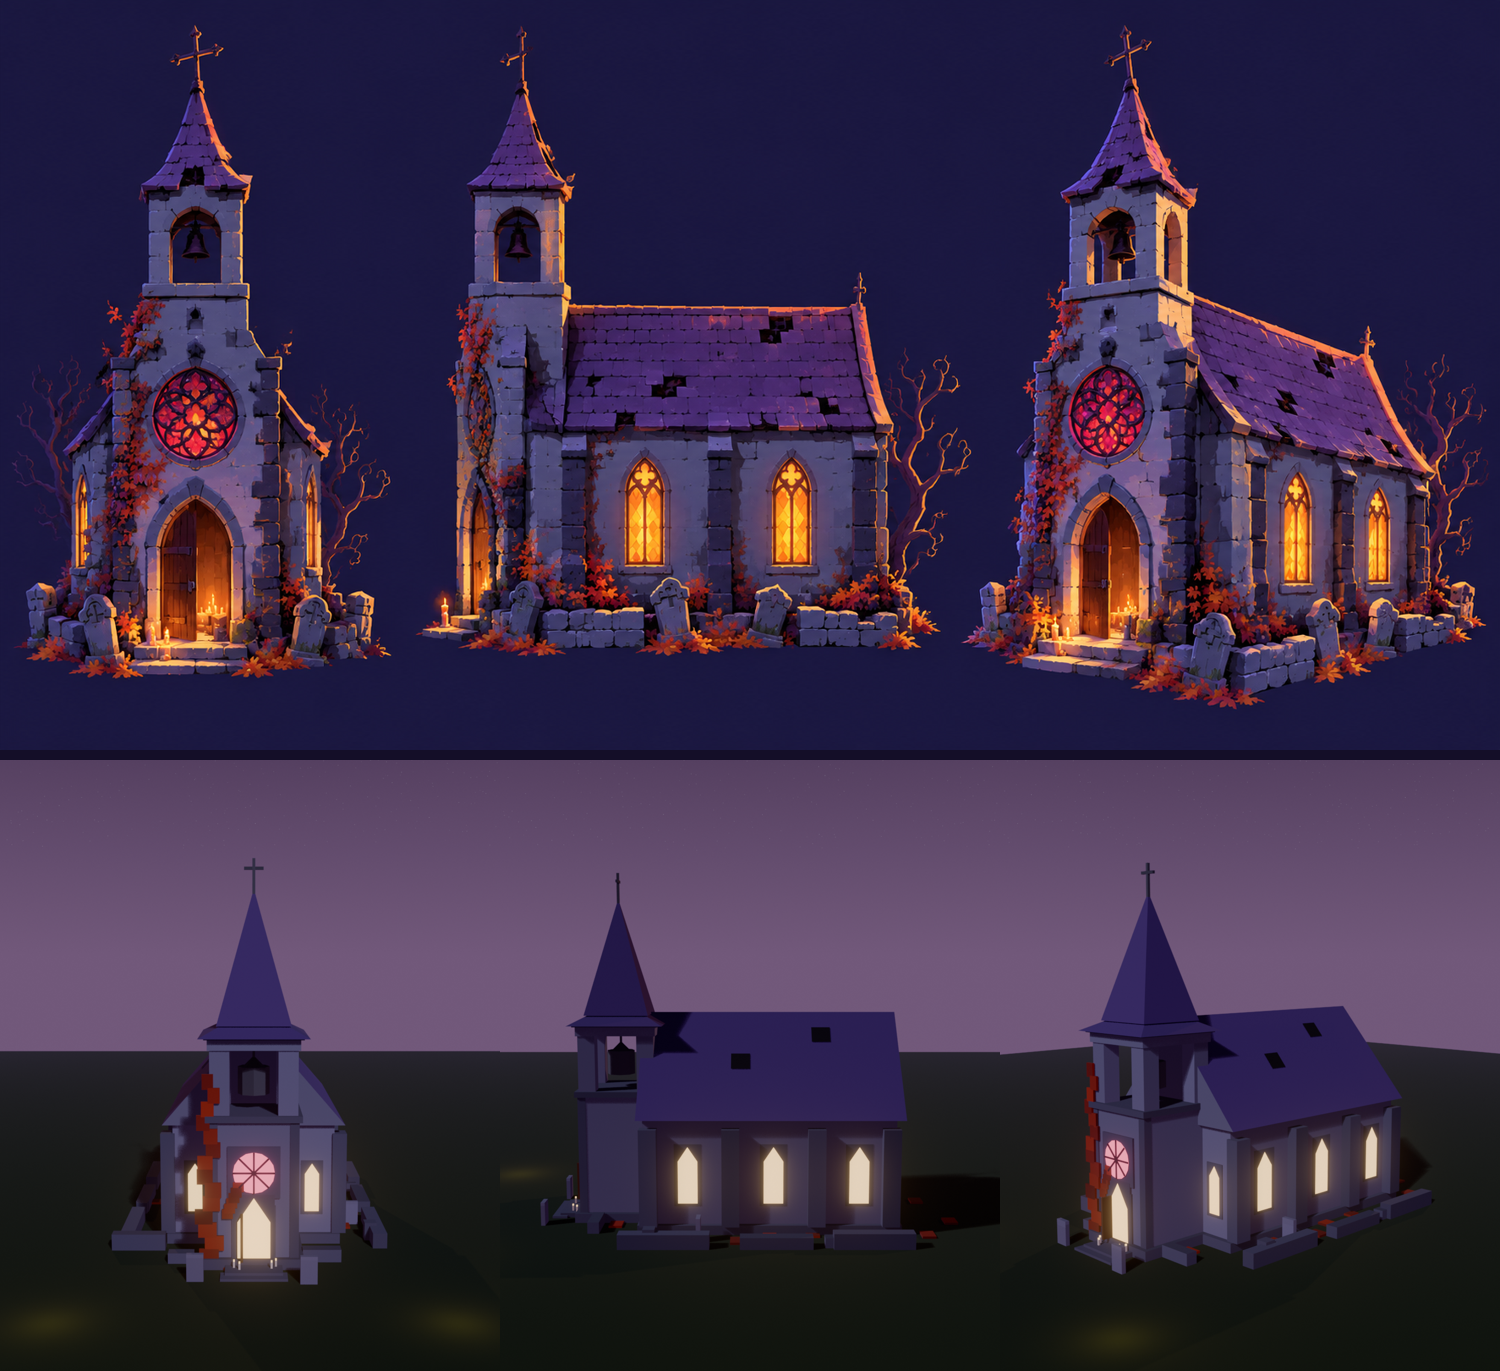
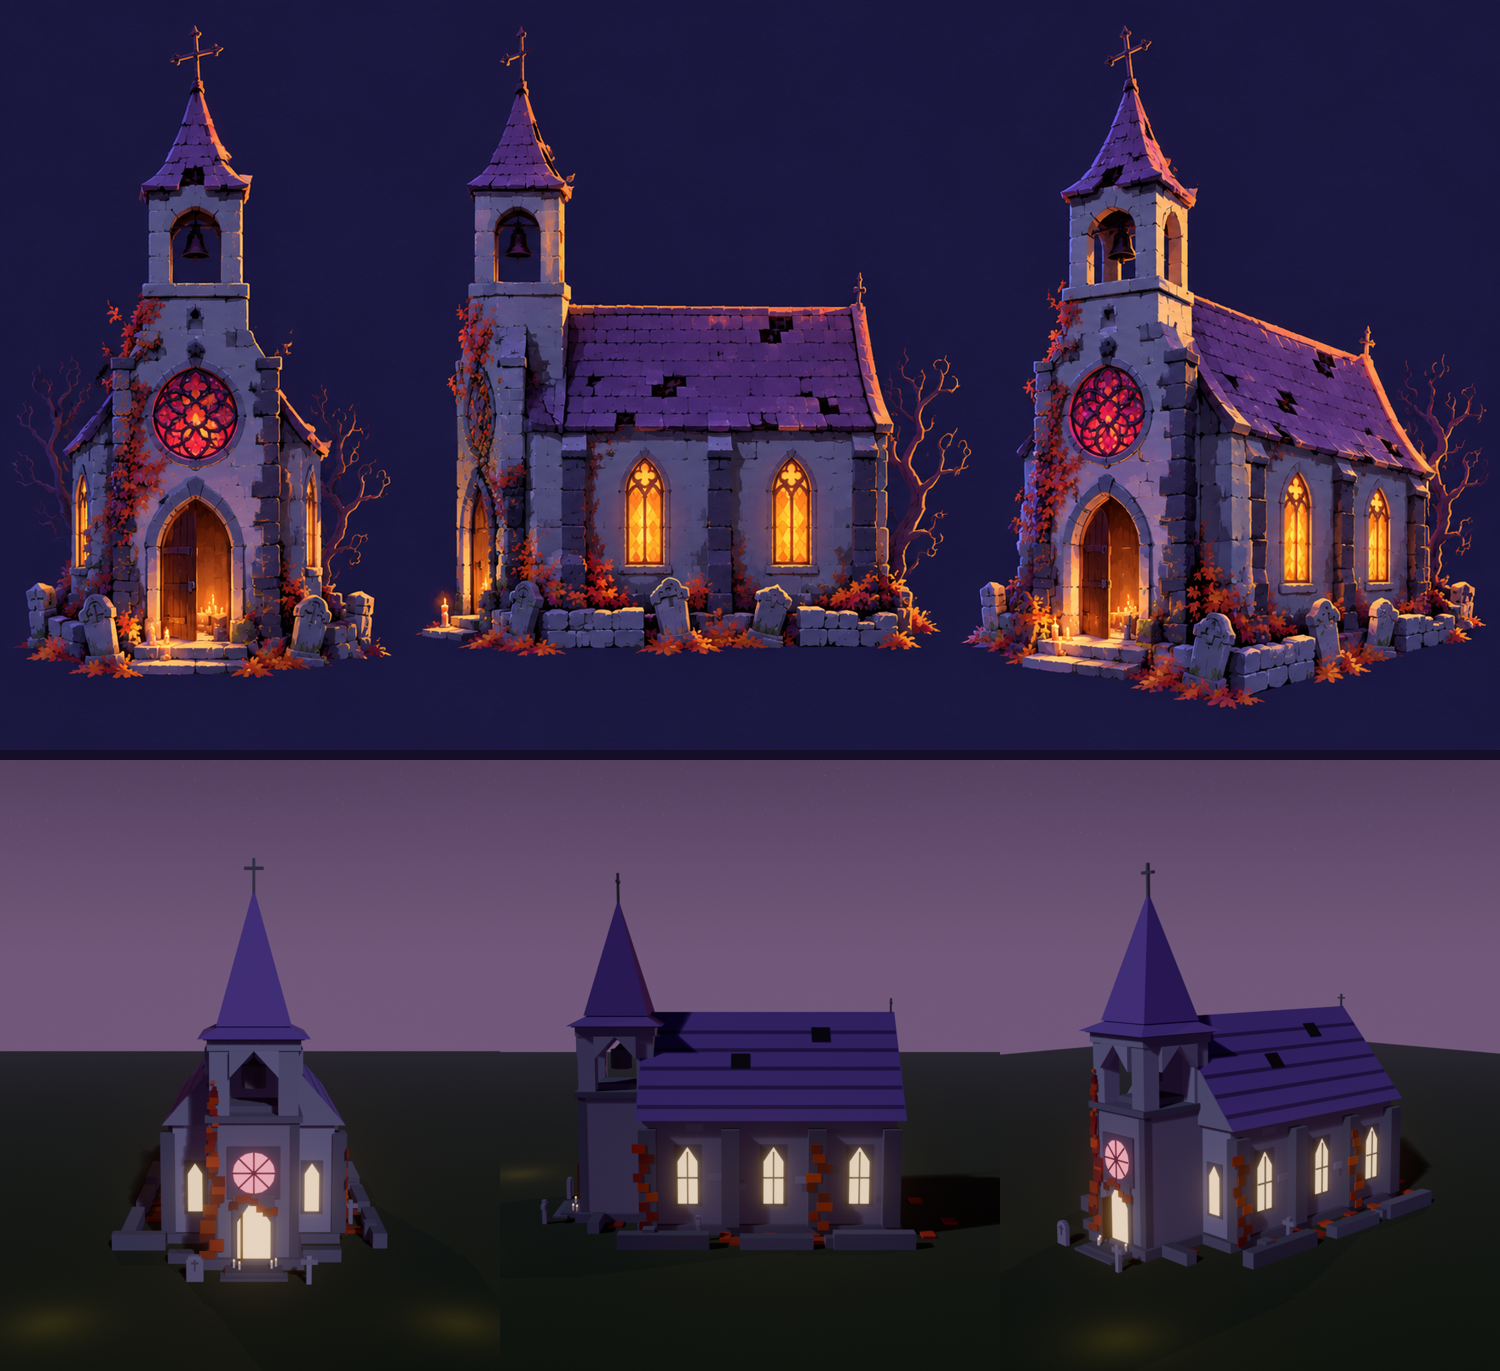
Chapel and house, second pass toward Marc's concepts
Chapel: pointed arch heads in the open belfry, a smaller bell on a beam, stone tracery in the lancets,
courses of slate on the roof, stone blocks proud of the walls, ivy grown in clumps up the tower and
corners, leaves drifted at the walls' feet, stone crosses and carved slabs, a cross on the back
gable, a more purple roof. House: warmer cream with clapboard lines, glazing bars in every window,
white rake boards and fascia, pots of orange mums by the steps. ~25 KB and ~19 KB downloaded.

Claude-Session: https://claude.ai/code/session_01VAUjUguVX6tbdgmz3FqzWB

diff --git a/golf/tools/landmarks.py b/golf/tools/landmarks.py
@@ -278,13 +278,15 @@ def hedge(col, name, points, height_at, height=2.4, width=1.3):
 
 CHAPEL_STONE = (0.44, 0.43, 0.52)   # lavender-grey stone in the moonlight (concept: the Forgotten Chapel)
 QUOIN = (0.3, 0.3, 0.37)
-CHAPEL_ROOF = (0.33, 0.22, 0.46)    # purple slate
+CHAPEL_ROOF = (0.36, 0.2, 0.52)     # purple slate
+SLATE_LINE = (0.24, 0.13, 0.34)
 OAK = (0.36, 0.21, 0.1)
 LEAVES = (0.55, 0.16, 0.06)
 
 
-def _arch(p, x, y, z, w, h, facing, frame=QUOIN, glow=True):
-    """A pointed-arch opening on a wall: a lit pane (or a dark recess, glow=False) with a stone frame.
+def _arch(p, x, y, z, w, h, facing, frame=QUOIN, glow=True, tracery=False):
+    """A pointed-arch opening on a wall: a lit pane (or a dark recess, glow=False) with a stone frame,
+    and with tracery=True a stone mullion and transom across the glass.
     facing -1 / +1: on a wall at y (front / back); 'x-' / 'x+': on a side wall at x."""
     tip = w * 0.75
     d = 0.06
@@ -292,15 +294,36 @@ def _arch(p, x, y, z, w, h, facing, frame=QUOIN, glow=True):
         yy = y + facing * d
         pts = [(x - w / 2, yy, z), (x + w / 2, yy, z), (x + w / 2, yy, z + h), (x, yy, z + h + tip), (x - w / 2, yy, z + h)]
         p.box((x, y, z + (h + tip) / 2), (w + 0.4, 0.1, h + tip + 0.3), frame)
+        if tracery:
+            p.box((x, yy + facing * 0.04, z + (h + tip * 0.7) / 2), (0.09, 0.06, h + tip * 0.7), frame)
+            p.box((x, yy + facing * 0.04, z + h * 0.62), (w, 0.06, 0.09), frame)
     else:
         sx = 1 if facing == "x+" else -1
         xx = x + sx * d
         pts = [(xx, y - w / 2, z), (xx, y + w / 2, z), (xx, y + w / 2, z + h), (xx, y, z + h + tip), (xx, y - w / 2, z + h)]
         p.box((x, y, z + (h + tip) / 2), (0.1, w + 0.4, h + tip + 0.3), frame)
+        if tracery:
+            p.box((xx + sx * 0.04, y, z + (h + tip * 0.7) / 2), (0.06, 0.09, h + tip * 0.7), frame)
+            p.box((xx + sx * 0.04, y, z + h * 0.62), (0.06, w, 0.09), frame)
     if glow:
         p.quad(pts, GLOW, glow=True)
     else:
         p.quad(pts, (0.04, 0.03, 0.05))
+
+
+def _slope_strip(p, eave, ridge, ya, yb, u, du, color, lift=0.03):
+    """A strip across a roof slope from eave (x, z) toward ridge (x, z), from u to u + du of the way up,
+    standing `lift` off it (a course of slates, a missing patch)."""
+    (xe, ze), (xr, zr) = eave, ridge
+    nx, nz = (zr - ze), -(xr - xe)                       # outward normal of the slope (in x, z)
+    ln = (nx * nx + nz * nz) ** 0.5
+    if nz < 0:
+        nx, nz = -nx, -nz
+    nx, nz = nx / ln * lift, nz / ln * lift
+    a = (xe + (xr - xe) * u + nx, ze + (zr - ze) * u + nz)
+    b = (xe + (xr - xe) * (u + du) + nx, ze + (zr - ze) * (u + du) + nz)
+    corners = [(a[0], ya, a[1]), (a[0], yb, a[1]), (b[0], yb, b[1]), (b[0], ya, b[1])]
+    p.quad(corners if xe > xr else corners[::-1], color)
 
 
 def _gable_y(p, x0, x1, y0, y1, z, rise, color, caps_color=None):
@@ -331,6 +354,22 @@ def chapel(col, name, pos, rot_z=0.0, scale=1.0):
         n = 0.03 * sx
         p.quad([(xa + n, yy - 0.5, za + 0.03), (xa + n, yy + 0.5, za + 0.03), (xb + n, yy + 0.5, zb + 0.03),
                 (xb + n, yy - 0.5, zb + 0.03)][:: sx], (0.05, 0.03, 0.06))
+    for sx in (-1, 1):
+        eave, ridge = (sx * (hw + 0.5), top - 0.1), (0.0, top - 0.1 + 5.2)
+        for u in (0.1, 0.27, 0.44, 0.61, 0.78):
+            _slope_strip(p, eave, ridge, y0 - 0.25, y1 + 0.35, u, 0.035, SLATE_LINE, 0.02)
+    p.box((0, y1 + 0.2, top + 5.4), (0.1, 0.1, 0.9), IRON)                              # the back gable's cross
+    p.box((0, y1 + 0.2, top + 5.6), (0.5, 0.1, 0.1), IRON)
+    # stone blocks standing a little proud on the walls, lighter and darker, round the windows
+    for sx in (-1, 1):
+        for k in range(16):
+            yy = p.rng.uniform(y0 + 0.6, y1 - 0.6)
+            zz = p.rng.uniform(0.8, top - 0.5)
+            if min(abs(yy - c) for c in (-4.2, 0.2, 4.6)) < 1.0 and 1.2 < zz < 4.6:
+                continue
+            shade = p.rng.choice((0.85, 1.12))
+            p.box((sx * (hw + 0.02), yy, zz), (0.06, p.rng.uniform(0.6, 1.1), 0.36),
+                  tuple(c * shade for c in CHAPEL_STONE))
     # buttresses: darker stone piers between the windows and at the corners
     for yy in (y0 + 0.3, -2.0, 2.4, y1 - 0.3):
         for sx in (-1, 1):
@@ -338,7 +377,7 @@ def chapel(col, name, pos, rot_z=0.0, scale=1.0):
     # tall lit lancets down each side, between the buttresses
     for yy in (-4.2, 0.2, 4.6):
         for sx in (-1, 1):
-            _arch(p, sx * hw, yy, 1.6, 1.0, 2.2, "x+" if sx > 0 else "x-")
+            _arch(p, sx * hw, yy, 1.6, 1.0, 2.2, "x+" if sx > 0 else "x-", tracery=True)
     # the tower on the front: square, a belfry with open arches, a bell, a slate spire and a cross
     T, ty, th = 4.0, y0 - 1.6, 11.0
     p.box((0, ty, 0.25), (T + 0.6, T + 0.6, 0.5), QUOIN)
@@ -353,9 +392,21 @@ def chapel(col, name, pos, rot_z=0.0, scale=1.0):
             p.box((sx * (T / 2 - 0.45), ty + sy * (T / 2 - 0.45), bz + 1.75), (0.9, 0.9, 3.2), CHAPEL_STONE)
     p.box((0, ty, bz + 3.5), (T + 0.2, T + 0.2, 0.5), CHAPEL_STONE)                 # the belfry's lintel
     p.box((0, ty, bz + 3.82), (T + 0.5, T + 0.5, 0.18), QUOIN)
-    p.cylinder((0, ty, bz + 1.0), 0.75, 1.3, IRON, segments=8)                       # the bell
-    p.cone((0, ty, bz + 2.3), 0.5, 0.5, IRON, segments=8)
-    p.box((0, ty, bz + 3.0), (0.12, 0.12, 0.9), IRON)
+    zt = bz + 3.25                                                                  # the openings' heads
+    o = T / 2 - 0.9
+    for side in (-1, 1):                                                             # front and back faces
+        for sx in (-1, 1):
+            p.prism([(sx * o, zt - 1.2), (sx * o, zt), (0.0, zt)][:: -sx], ty + side * (T / 2) - 0.25,
+                    ty + side * (T / 2) + 0.25, CHAPEL_STONE)
+    for side in (-1, 1):                                                             # the two sides
+        for sy in (-1, 1):
+            _prism_x(p, [(ty + sy * o, zt - 1.2), (ty + sy * o, zt), (ty, zt)][:: sy], side * (T / 2) - 0.25,
+                     side * (T / 2) + 0.25, CHAPEL_STONE)
+    p.box((0, ty, bz + 0.45), (T - 1.6, T - 1.6, 0.3), QUOIN)                          # the belfry floor
+    p.cylinder((0, ty, bz + 1.3), 0.58, 1.05, IRON, segments=8)                      # the bell
+    p.cone((0, ty, bz + 2.35), 0.4, 0.4, IRON, segments=8)
+    p.box((0, ty, bz + 2.85), (0.1, 0.1, 0.5), IRON)
+    p.box((0, ty, bz + 3.05), (T - 1.4, 0.16, 0.16), OAK)                             # the beam it hangs from
     sz = bz + 3.9
     q = math.pi / 4
     p.cone((0, ty, sz - 0.1), (T + 1.0) / math.sqrt(2), 1.3, CHAPEL_ROOF, segments=4, turn=q)  # the flared skirt
@@ -382,12 +433,27 @@ def chapel(col, name, pos, rot_z=0.0, scale=1.0):
         p._paint(p.body, p.lay, list({f for v in ret["verts"] for f in v.link_faces}), (0.12, 0.05, 0.1), 0.0)
     for sx in (-1, 1):
         _arch(p, sx * (hw - 1.1), y0, 1.6, 0.7, 1.9, -1)
-    # red ivy up the tower's left corner and round the door
-    for k in range(14):
-        z = 0.6 + k * 0.62
-        p.box((-T / 2 - 0.05 + 0.25 * math.sin(k * 1.7), fy - 0.12, z), (0.9 - 0.03 * k, 0.12, 0.7), LEAVES, jitter=0.25)
-    for k in range(6):
-        p.box((-1.2 + 0.1 * k, fy - 0.14, 2.6 + 0.25 * k), (0.5, 0.1, 0.45), LEAVES, jitter=0.25)
+    # red ivy: clumps grown up the tower's left corner, over the door, and up the nave's corners
+    ivy = (LEAVES, (0.66, 0.24, 0.07), (0.45, 0.1, 0.07))
+    for k in range(26):
+        z = 0.5 + (k / 26) ** 0.8 * 8.4
+        x = -T / 2 + 0.2 + p.rng.uniform(-0.45, 0.35) * (1.0 - z / 12)
+        sz = p.rng.uniform(0.35, 0.75) * (1.0 - z / 14)
+        p.box((x, fy - 0.12, z), (sz * 1.2, 0.12, sz), p.rng.choice(ivy), jitter=0.2)
+        if k % 3 == 0:                                                               # round the corner, onto the side
+            p.box((-T / 2 - 0.08, fy + 0.35 + p.rng.uniform(0, 0.6), z), (0.12, sz, sz), p.rng.choice(ivy), jitter=0.2)
+    for k in range(7):
+        p.box((-0.9 + 0.3 * k, fy - 0.15, 3.0 + 0.35 * math.sin(k * 0.9)), (0.4, 0.1, 0.35), p.rng.choice(ivy), jitter=0.2)
+    for sx, yy in ((1, y0 + 0.2), (-1, y1 - 0.2), (1, 2.4)):
+        for k in range(9):
+            z = 0.6 + k * 0.5
+            p.box((sx * (hw + 0.62), yy + p.rng.uniform(-0.4, 0.4), z), (0.1, p.rng.uniform(0.4, 0.8), 0.45),
+                  p.rng.choice(ivy), jitter=0.2)
+    # leaves drifted along the walls' feet
+    for sx in (-1, 1):
+        for k in range(10):
+            p.box((sx * (hw + 0.8 + p.rng.uniform(0, 0.6)), p.rng.uniform(y0, y1), 0.08),
+                  (p.rng.uniform(0.6, 1.1), p.rng.uniform(0.5, 0.9), 0.16), p.rng.choice(ivy), jitter=0.25)
     # low broken stone walls along both sides, with gaps
     for sx in (-1, 1):
         for ya, yb, h in ((y0 - 1.0, y0 + 3.5, 0.75), (y0 + 5.0, y0 + 8.6, 0.6), (y0 + 9.6, y1 + 0.6, 0.8)):
@@ -402,9 +468,16 @@ def chapel(col, name, pos, rot_z=0.0, scale=1.0):
     for x, y, w, h in ((-5.6, y0 - 1.0, 2.6, 0.8), (-6.2, -1.5, 0.6, 0.6), (5.9, y0 + 0.5, 0.6, 0.9),
                        (6.0, 3.0, 0.6, 0.5), (3.2, y0 - 2.6, 1.8, 0.6), (-3.4, y0 - 2.8, 1.2, 0.5)):
         p.box((x, y, h / 2), (w if w > 1 else 0.6, w if w <= 1 else 0.6, h), QUOIN, jitter=0.12)
-    for x, y in ((-2.6, fy - 1.6), (2.4, fy - 1.9), (-5.0, 2.0), (5.2, -3.6)):
-        p.box((x, y, 0.55), (0.75, 0.22, 1.1), CHAPEL_STONE, jitter=0.1)                # headstones
-        p.box((x, y, 1.1), (0.75, 0.22, 0.3), CHAPEL_STONE)
+    for k, (x, y) in enumerate(((-2.6, fy - 1.6), (2.4, fy - 1.9), (-5.0, 2.0), (5.2, -3.6), (-5.4, 5.2))):
+        if k % 2 == 0:                                                               # a slab with a rounded top
+            p.box((x, y, 0.5), (0.75, 0.22, 1.0), CHAPEL_STONE, jitter=0.1)
+            p.box((x, y, 1.06), (0.58, 0.22, 0.13), CHAPEL_STONE)                       # its rounded shoulders
+            p.box((x, y, 1.15), (0.34, 0.22, 0.08), CHAPEL_STONE)
+            p.box((x, y - 0.13, 0.75), (0.07, 0.04, 0.5), QUOIN)                          # its carved cross
+            p.box((x, y - 0.13, 0.85), (0.32, 0.04, 0.07), QUOIN)
+        else:                                                                        # a stone cross
+            p.box((x, y, 0.65), (0.22, 0.22, 1.3), CHAPEL_STONE, jitter=0.1)
+            p.box((x, y, 1.0), (0.75, 0.22, 0.22), CHAPEL_STONE)
     for k in range(18):
         a = k * 2.4
         r = 4.6 + (k % 4) * 0.9
@@ -413,7 +486,9 @@ def chapel(col, name, pos, rot_z=0.0, scale=1.0):
     return obs, [(hw + 1.0) * scale, (L / 2 + T + 0.5) * scale]
 
 
-HOUSE_SIDING = (0.8, 0.76, 0.68)     # cream clapboard (concept: the Homecoming House)
+HOUSE_SIDING = (0.86, 0.8, 0.67)     # warm cream clapboard (concept: the Homecoming House)
+CLAP_LINE = (0.62, 0.57, 0.5)
+POT = (0.5, 0.24, 0.13)
 HOUSE_ROOF = (0.3, 0.2, 0.4)         # dusky plum shingles
 SHUTTER = (0.1, 0.22, 0.2)
 RED_DOOR = (0.55, 0.07, 0.06)
@@ -423,15 +498,19 @@ BLACK = (0.04, 0.035, 0.05)
 
 
 def _shuttered(p, x, y, z, w, h, facing):
-    """A lit window with dark green shutters either side."""
+    """A lit window with white glazing bars and dark green shutters either side."""
     _window(p, x, y, z, w, h, facing)
     if facing in (-1, 1):
         for sx in (-1, 1):
             p.box((x + sx * (w / 2 + 0.32), y + facing * 0.06, z + h / 2), (0.42, 0.08, h + 0.1), SHUTTER)
+        p.box((x, y + facing * 0.1, z + h / 2), (0.06, 0.04, h), TRIM)
+        p.box((x, y + facing * 0.1, z + h * 0.52), (w, 0.04, 0.06), TRIM)
     else:
         sx = 1 if facing == "x+" else -1
         for sy in (-1, 1):
             p.box((x + sx * 0.06, y + sy * (w / 2 + 0.32), z + h / 2), (0.08, 0.42, h + 0.1), SHUTTER)
+        p.box((x + sx * 0.1, y, z + h / 2), (0.04, 0.06, h), TRIM)
+        p.box((x + sx * 0.1, y, z + h * 0.52), (0.04, w, 0.06), TRIM)
 
 
 def house(col, name, pos, rot_z=0.0, scale=1.0):
@@ -451,6 +530,21 @@ def house(col, name, pos, rot_z=0.0, scale=1.0):
     _prism_x(p, [(-hd - 0.6, top - 0.15), (hd + 0.6, top - 0.15), (0, top + 4.6)], -hw - 0.35, hw + 0.35,
              HOUSE_ROOF, HOUSE_SIDING)
     _prism_x(p, [(-hd + 0.05, top), (hd - 0.05, top), (0, top + 4.35)], -hw + 0.02, hw - 0.02, HOUSE_SIDING)
+    # clapboard lines on all four walls
+    for k in range(1, 8):
+        z = base + k * H / 8
+        p.box((0, -hd - 0.025, z), (W, 0.03, 0.05), CLAP_LINE, jitter=0.0)
+        p.box((0, hd + 0.025, z), (W, 0.03, 0.05), CLAP_LINE, jitter=0.0)
+        for sx in (-1, 1):
+            p.box((sx * (hw + 0.025), 0, z), (0.03, D, 0.05), CLAP_LINE, jitter=0.0)
+    # white trim: rake boards up both gable ends, fascia along the eaves
+    for sx in (-1, 1):
+        x = sx * (hw + 0.37)
+        for ye in (-hd - 0.6, hd + 0.6):
+            _prism_x(p, [(ye, top - 0.15), (0.0, top + 4.6), (0.0, top + 4.25), (ye, top - 0.5)][:: 1 if ye < 0 else -1],
+                     x - 0.06, x + 0.06, TRIM)
+    for ye in (-hd - 0.62, hd + 0.62):
+        p.box((0, ye, top - 0.3), (W + 0.8, 0.1, 0.3), TRIM)
     # two dormers on the front slope
     for dx in (-2.6, 2.6):
         p.box((dx, -hd + 1.5, top + 1.25), (2.0, 2.0, 1.9), HOUSE_SIDING)
@@ -511,6 +605,9 @@ def house(col, name, pos, rot_z=0.0, scale=1.0):
         p.cylinder((x, y, 0.0), 0.36, 0.55, PUMPKIN, segments=8)
         p.box((x, y - 0.33, 0.3), (0.32, 0.06, 0.18), GLOW, glow=True)              # the carved face
         p.box((x, y, 0.62), (0.08, 0.08, 0.14), (0.25, 0.35, 0.1))
+    for x in (-2.3, 2.3):                                                             # pots of orange mums by the steps
+        p.cylinder((x, -hd - PD - 0.35, 0.0), 0.28, 0.4, POT, segments=8)
+        p.box((x, -hd - PD - 0.35, 0.55), (0.6, 0.6, 0.35), (0.85, 0.42, 0.08), jitter=0.2)
     p.box((3.6, -hd - 1.2, base + 0.45), (0.7, 0.7, 0.12), OAK)                         # rocking chair
     p.box((3.6, -hd - 0.9, base + 0.95), (0.7, 0.1, 1.0), OAK)
     for x in (-hw + 0.4, hw - 0.4):
